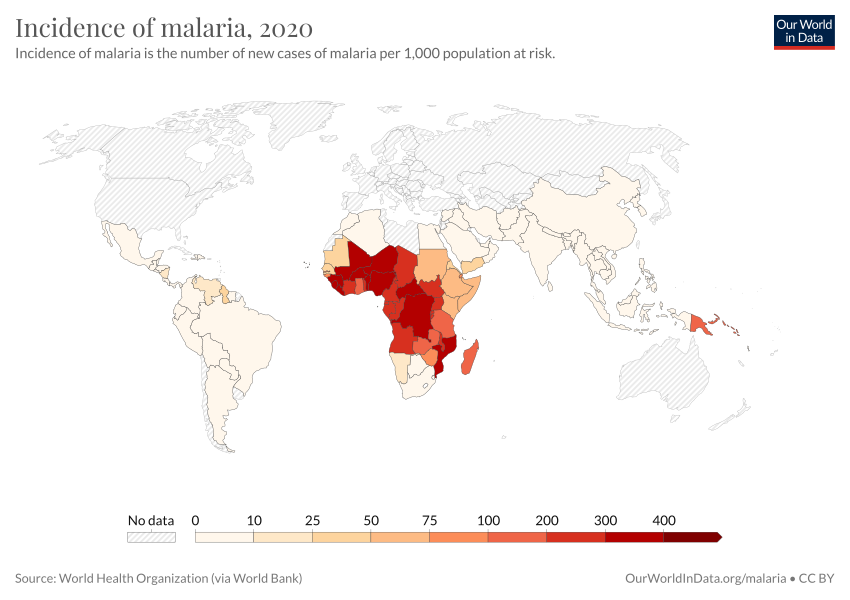
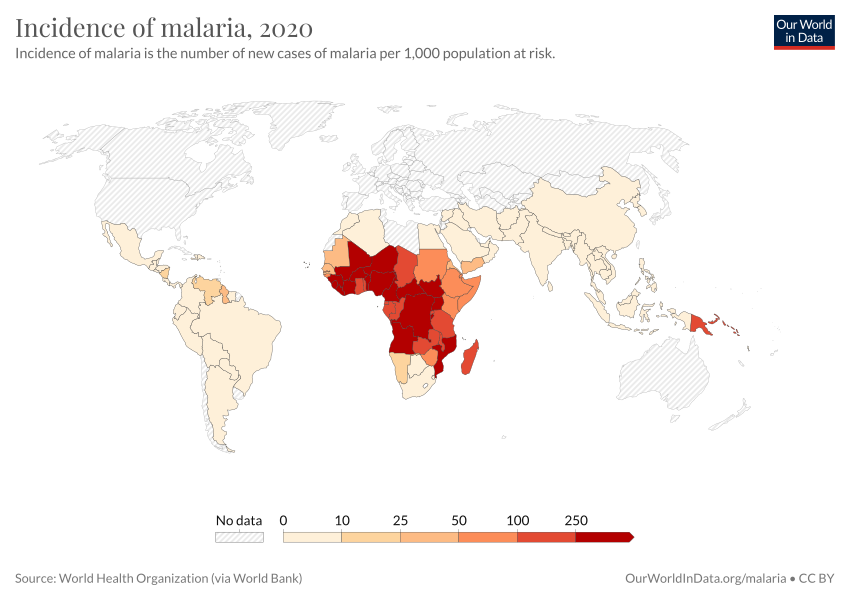
Deploy 2022-09-28T08:08:20.438Z Updating chart the-incidence-of-malaria-per-1000-population Updating chart the-incidence-of-malaria-per-1000-population Updating chart incidence-of-malaria Updating chart incidence-of-malaria

diff --git a/co2-emissions.html b/co2-emissions.html
@@ -1,4 +1,4 @@
-<!doctype html><html><head><meta name="viewport" content="width=device-width, initial-scale=1"/><title>CO2 emissions - Our World in Data</title><meta name="description" content="How much CO2 does the world emit? Which countries emit the most?"/><link rel="canonical" href="https://ourworldindata.org/co2-emissions"/><link rel="alternate" type="application/atom+xml" href="/atom.xml"/><link rel="apple-touch-icon" sizes="180x180" href="/apple-touch-icon.png"/><meta property="fb:app_id" content="1149943818390250"/><meta property="og:url" content="https://ourworldindata.org/co2-emissions"/><meta property="og:title" content="CO2 emissions"/><meta property="og:description" content="How much CO2 does the world emit? Which countries emit the most?"/><meta property="og:image" content="https://ourworldindata.org/uploads/2022/03/Screenshot-2022-03-04-at-16.51.31-768x480.png"/><meta property="og:site_name" content="Our World in Data"/><meta name="twitter:card" content="summary_large_image"/><meta name="twitter:site" content="@OurWorldInData"/><meta name="twitter:creator" content="@OurWorldInData"/><meta name="twitter:title" content="CO2 emissions"/><meta name="twitter:description" content="How much CO2 does the world emit? Which countries emit the most?"/><meta name="twitter:image" content="https://ourworldindata.org/uploads/2022/03/Screenshot-2022-03-04-at-16.51.31-768x480.png"/><link href="https://fonts.googleapis.com/css?family=Lato:300,400,400i,700,700i|Playfair+Display:400,700&amp;display=swap" rel="stylesheet"/><link rel="stylesheet" href="https://ourworldindata.org/assets/commons.css"/><link rel="stylesheet" href="https://ourworldindata.org/assets/owid.css"/><meta name="citation_title" content="CO₂ and Greenhouse Gas Emissions"/><meta name="citation_fulltext_html_url" content="https://ourworldindata.org/co2-and-other-greenhouse-gas-emissions"/><meta name="citation_fulltext_world_readable" content=""/><meta name="citation_publication_date" content="2020/05/11"/><meta name="citation_journal_title" content="Our World in Data"/><meta name="citation_journal_abbrev" content="Our World in Data"/><meta name="citation_author" content="Hannah Ritchie"/><meta name="citation_author" content="Max Roser"/><meta name="citation_author" content="Pablo Rosado"/></head><body class=""><header class="site-header"><div class="wrapper site-navigation-bar"><div class="site-logo"><a href="/">Our World<br/> in Data</a></div><nav class="site-navigation"><div class="topics-button-wrapper"><a href="/#entries" class="topics-button"><div class="label">Articles <br/><strong>by topic</strong></div><div class="icon"><svg width="12" height="6"><path d="M0,0 L12,0 L6,6 Z" fill="currentColor"></path></svg></div></a></div><div><div class="site-primary-navigation"><form class="HeaderSearch" action="/search" method="GET"><input type="search" name="q" placeholder="Search..."/><div class="icon"><svg aria-hidden="true" focusable="false" data-prefix="fas" data-icon="magnifying-glass" class="svg-inline--fa fa-magnifying-glass " role="img" xmlns="http://www.w3.org/2000/svg" viewBox="0 0 512 512"><path fill="currentColor" d="M416 208c0 45.9-14.9 88.3-40 122.7L502.6 457.4c12.5 12.5 12.5 32.8 0 45.3s-32.8 12.5-45.3 0L330.7 376c-34.4 25.2-76.8 40-122.7 40C93.1 416 0 322.9 0 208S93.1 0 208 0S416 93.1 416 208zM208 352c79.5 0 144-64.5 144-144s-64.5-144-144-144S64 128.5 64 208s64.5 144 144 144z"></path></svg></div></form><ul class="site-primary-links"><li><a href="/blog" data-track-note="header-navigation">Latest</a></li><li><a href="/about" data-track-note="header-navigation">About</a></li><li><a href="/donate" data-track-note="header-navigation">Donate</a></li></ul></div><div class="site-secondary-navigation"><ul class="site-secondary-links"><li><a href="/charts" data-track-note="header-navigation">All charts</a></li><li><a href="https://sdg-tracker.org" data-track-note="header-navigation">Sustainable Development Goals Tracker</a></li></ul></div></div></nav><div class="header-logos-wrapper"><a href="https://www.oxfordmartin.ox.ac.uk/global-development" class="oxford-logo"><img src="https://ourworldindata.org/oms-logo.svg" alt="Oxford Martin School logo"/></a><a href="https://global-change-data-lab.org/" class="gcdl-logo"><img src="https://ourworldindata.org/gcdl-logo.svg" alt="Global Change Data Lab logo"/></a></div><div class="mobile-site-navigation"><button data-track-note="mobile-search-button"><svg aria-hidden="true" focusable="false" data-prefix="fas" data-icon="magnifying-glass" class="svg-inline--fa fa-magnifying-glass " role="img" xmlns="http://www.w3.org/2000/svg" viewBox="0 0 512 512"><path fill="currentColor" d="M416 208c0 45.9-14.9 88.3-40 122.7L502.6 457.4c12.5 12.5 12.5 32.8 0 45.3s-32.8 12.5-45.3 0L330.7 376c-34.4 25.2-76.8 40-122.7 40C93.1 416 0 322.9 0 208S93.1 0 208 0S416 93.1 416 208zM208 352c79.5 0 144-64.5 144-144s-64.5-144-144-144S64 128.5 64 208s64.5 144 144 144z"></path></svg></button><button data-track-note="mobile-newsletter-button"><svg aria-hidden="true" focusable="false" data-prefix="fas" data-icon="envelope-open-text" class="svg-inline--fa fa-envelope-open-text " role="img" xmlns="http://www.w3.org/2000/svg" viewBox="0 0 512 512"><path fill="currentColor" d="M215.4 96H144 107.8 96v8.8V144v40.4 89L.2 202.5c1.6-18.1 10.9-34.9 25.7-45.8L48 140.3V96c0-26.5 21.5-48 48-48h76.6l49.9-36.9C232.2 3.9 243.9 0 256 0s23.8 3.9 33.5 11L339.4 48H416c26.5 0 48 21.5 48 48v44.3l22.1 16.4c14.8 10.9 24.1 27.7 25.7 45.8L416 273.4v-89V144 104.8 96H404.2 368 296.6 215.4zM0 448V242.1L217.6 403.3c11.1 8.2 24.6 12.7 38.4 12.7s27.3-4.4 38.4-12.7L512 242.1V448v0c0 35.3-28.7 64-64 64H64c-35.3 0-64-28.7-64-64v0zM176 160H336c8.8 0 16 7.2 16 16s-7.2 16-16 16H176c-8.8 0-16-7.2-16-16s7.2-16 16-16zm0 64H336c8.8 0 16 7.2 16 16s-7.2 16-16 16H176c-8.8 0-16-7.2-16-16s7.2-16 16-16z"></path></svg></button><button data-track-note="mobile-hamburger-button"><svg aria-hidden="true" focusable="false" data-prefix="fas" data-icon="bars" class="svg-inline--fa fa-bars " role="img" xmlns="http://www.w3.org/2000/svg" viewBox="0 0 448 512"><path fill="currentColor" d="M0 96C0 78.3 14.3 64 32 64H416c17.7 0 32 14.3 32 32s-14.3 32-32 32H32C14.3 128 0 113.7 0 96zM0 256c0-17.7 14.3-32 32-32H416c17.7 0 32 14.3 32 32s-14.3 32-32 32H32c-17.7 0-32-14.3-32-32zM448 416c0 17.7-14.3 32-32 32H32c-17.7 0-32-14.3-32-32s14.3-32 32-32H416c17.7 0 32 14.3 32 32z"></path></svg></button></div></div></header><div class="alert-banner"><div class="content"><div class="text"><strong>COVID-19 vaccinations, cases, excess mortality, and much more</strong></div><a href="/coronavirus#explore-the-global-situation" data-track-note="covid-banner-click">Explore our COVID-19 data</a></div></div><main><article class="page with-sidebar large-banner"><div class="offset-header"><header class="article-header"><div class="article-titles"><h1 class="entry-title">CO2 emissions</h1><div class="breadcrumb"><a href="/">Home</a><span class="separator"><svg aria-hidden="true" focusable="false" data-prefix="fas" data-icon="angle-right" class="svg-inline--fa fa-angle-right " role="img" xmlns="http://www.w3.org/2000/svg" viewBox="0 0 320 512"><path fill="currentColor" d="M278.6 233.4c12.5 12.5 12.5 32.8 0 45.3l-160 160c-12.5 12.5-32.8 12.5-45.3 0s-12.5-32.8 0-45.3L210.7 256 73.4 118.6c-12.5-12.5-12.5-32.8 0-45.3s32.8-12.5 45.3 0l160 160z"></path></svg></span><a data-track-note="breadcrumb" href="/co2-and-other-greenhouse-gas-emissions">CO₂ and GHG Emissions</a><span class="separator"><svg aria-hidden="true" focusable="false" data-prefix="fas" data-icon="angle-right" class="svg-inline--fa fa-angle-right " role="img" xmlns="http://www.w3.org/2000/svg" viewBox="0 0 320 512"><path fill="currentColor" d="M278.6 233.4c12.5 12.5 12.5 32.8 0 45.3l-160 160c-12.5 12.5-32.8 12.5-45.3 0s-12.5-32.8 0-45.3L210.7 256 73.4 118.6c-12.5-12.5-12.5-32.8 0-45.3s32.8-12.5 45.3 0l160 160z"></path></svg></span><span>CO₂ emissions</span></div></div><div class="authors-byline"><a href="/team">by Hannah Ritchie and Max Roser</a></div><div class="tools"><a href="#licence"><svg aria-hidden="true" focusable="false" data-prefix="fab" data-icon="creative-commons" class="svg-inline--fa fa-creative-commons " role="img" xmlns="http://www.w3.org/2000/svg" viewBox="0 0 496 512"><path fill="currentColor" d="M245.83 214.87l-33.22 17.28c-9.43-19.58-25.24-19.93-27.46-19.93-22.13 0-33.22 14.61-33.22 43.84 0 23.57 9.21 43.84 33.22 43.84 14.47 0 24.65-7.09 30.57-21.26l30.55 15.5c-6.17 11.51-25.69 38.98-65.1 38.98-22.6 0-73.96-10.32-73.96-77.05 0-58.69 43-77.06 72.63-77.06 30.72-.01 52.7 11.95 65.99 35.86zm143.05 0l-32.78 17.28c-9.5-19.77-25.72-19.93-27.9-19.93-22.14 0-33.22 14.61-33.22 43.84 0 23.55 9.23 43.84 33.22 43.84 14.45 0 24.65-7.09 30.54-21.26l31 15.5c-2.1 3.75-21.39 38.98-65.09 38.98-22.69 0-73.96-9.87-73.96-77.05 0-58.67 42.97-77.06 72.63-77.06 30.71-.01 52.58 11.95 65.56 35.86zM247.56 8.05C104.74 8.05 0 123.11 0 256.05c0 138.49 113.6 248 247.56 248 129.93 0 248.44-100.87 248.44-248 0-137.87-106.62-248-248.44-248zm.87 450.81c-112.54 0-203.7-93.04-203.7-202.81 0-105.42 85.43-203.27 203.72-203.27 112.53 0 202.82 89.46 202.82 203.26-.01 121.69-99.68 202.82-202.84 202.82z"></path></svg>Reuse our work freely</a><a href="#citation"><svg aria-hidden="true" focusable="false" data-prefix="fas" data-icon="book" class="svg-inline--fa fa-book " role="img" xmlns="http://www.w3.org/2000/svg" viewBox="0 0 448 512"><path fill="currentColor" d="M96 0C43 0 0 43 0 96V416c0 53 43 96 96 96H384h32c17.7 0 32-14.3 32-32s-14.3-32-32-32V384c17.7 0 32-14.3 32-32V32c0-17.7-14.3-32-32-32H384 96zm0 384H352v64H96c-17.7 0-32-14.3-32-32s14.3-32 32-32zm32-240c0-8.8 7.2-16 16-16H336c8.8 0 16 7.2 16 16s-7.2 16-16 16H144c-8.8 0-16-7.2-16-16zm16 48H336c8.8 0 16 7.2 16 16s-7.2 16-16 16H144c-8.8 0-16-7.2-16-16s7.2-16 16-16z"></path></svg>Cite this research</a></div></header></div><div class="offset-subnavigation"><div class="site-subnavigation"><div class="site-subnavigation-scroll"><ul class="site-subnavigation-links"><li class="highlight"><a href="/co2-and-other-greenhouse-gas-emissions" data-track-note="co2-subnav-co2-and-ghg-emissions">CO₂ and GHG Emissions<svg aria-hidden="true" focusable="false" data-prefix="fas" data-icon="chevron-left" class="svg-inline--fa fa-chevron-left " role="img" xmlns="http://www.w3.org/2000/svg" viewBox="0 0 384 512"><path fill="currentColor" d="M41.4 233.4c-12.5 12.5-12.5 32.8 0 45.3l192 192c12.5 12.5 32.8 12.5 45.3 0s12.5-32.8 0-45.3L109.3 256 278.6 86.6c12.5-12.5 12.5-32.8 0-45.3s-32.8-12.5-45.3 0l-192 192z"></path></svg></a></li><li class=""><a href="/co2-and-other-greenhouse-gas-emissions#co2-and-greenhouse-gas-emissions-country-profiles" data-track-note="co2-subnav-by-country">By country</a></li><li class=""><a href="/explorers/co2" data-track-note="co2-subnav-co2-data-explorer">Data explorer</a></li><li class="current"><a href="/co2-emissions" data-track-note="co2-subnav-co2-emissions">CO₂ emissions</a></li><li class=""><a href="/emissions-by-fuel" data-track-note="co2-subnav-by-fuel">CO₂ by fuel</a></li><li class=""><a href="/greenhouse-gas-emissions" data-track-note="co2-subnav-ghg-emissions">GHG emissions</a></li><li class=""><a href="/emissions-by-sector" data-track-note="co2-subnav-by-sector">By sector</a></li><li class=""><a href="/atmospheric-concentrations" data-track-note="co2-subnav-atm-concentrations">Atmospheric concentrations</a></li><li class=""><a href="/explorers/climate-change" data-track-note="co2-subnav-climate-impacts">Climate impacts</a></li></ul></div></div></div><div class="content-wrapper"><div class="toc-wrapper"><aside class="entry-sidebar"><div class="sticky-sentinel"></div><nav class="entry-toc"><ul><li><a href="#" data-track-note="toc-header">CO2 emissions</a></li><li class="section"><a href="#global-co2-emissions-from-fossil-fuels" data-track-note="toc-link">Global CO2 emissions from fossil fuels</a></li><li class="subsection"><a href="#global-co2-emissions-from-fossil-fuels-global-co2-emissions-from-fossil-fuels" data-track-note="toc-link">Global CO2 emissions from fossil fuels</a></li><li class="subsection"><a href="#global-co2-emissions-from-fossil-fuels-and-land-use-change" data-track-note="toc-link">Global CO2 emissions from fossil fuels and land use change</a></li><li class="subsection"><a href="#co2-emissions-by-region" data-track-note="toc-link">CO2 emissions by region</a></li><li class="section"><a href="#per-capita-co2-emissions" data-track-note="toc-link">Per capita CO2 emissions</a></li><li class="section"><a href="#annual-co2-emissions" data-track-note="toc-link">Annual CO2 emissions</a></li><li class="section"><a href="#annual-change-in-co2-emissions" data-track-note="toc-link">Annual change in CO2 emissions</a></li><li class="section"><a href="#cumulative-co2-emissions" data-track-note="toc-link">Cumulative CO2 emissions</a></li><li class="section"><a href="#consumption-based-trade-adjusted-emissions" data-track-note="toc-link">Consumption-based (trade-adjusted) emissions</a></li><li class="section"><a href="#decoupling-co2-emissions-from-economic-growth" data-track-note="toc-link">Decoupling CO₂ emissions from economic growth</a></li><li class="section"><a href="#global-inequalities-in-co2-emissions" data-track-note="toc-link">Global inequalities in CO2 emissions</a></li><li class="subsection"><a href="#global-inequalities-by-production" data-track-note="toc-link">Global inequalities by production</a></li><li class="subsection"><a href="#global-inequalities-by-consumption" data-track-note="toc-link">Global inequalities by consumption</a></li><li class="section"><a href="#how-do-we-measure-or-estimate-co2-emissions" data-track-note="toc-link">How do we measure or estimate CO2 emissions?</a></li><li class="section"><a href="#endnotes" data-track-note="toc-link">Endnotes</a></li><li class="section"><a href="#licence" data-track-note="toc-link">Licence</a></li><li class="section"><a href="#citation" data-track-note="toc-link">Citation</a></li></ul></nav><div class="toggle-toc"><button data-track-note="page-toggle-toc" aria-label="Open table of contents"><svg aria-hidden="true" focusable="false" data-prefix="fas" data-icon="bars" class="svg-inline--fa fa-bars " role="img" xmlns="http://www.w3.org/2000/svg" viewBox="0 0 448 512"><path fill="currentColor" d="M0 96C0 78.3 14.3 64 32 64H416c17.7 0 32 14.3 32 32s-14.3 32-32 32H32C14.3 128 0 113.7 0 96zM0 256c0-17.7 14.3-32 32-32H416c17.7 0 32 14.3 32 32s-14.3 32-32 32H32c-17.7 0-32-14.3-32-32zM448 416c0 17.7-14.3 32-32 32H32c-17.7 0-32-14.3-32-32s14.3-32 32-32H416c17.7 0 32 14.3 32 32z"></path></svg><span class="label">Contents</span></button></div></aside></div><div class="offset-content"><div class="content-and-footnotes"><div class="article-content"><section><div class="wp-block-columns is-style-sticky-right"><div class="wp-block-column"><p>You can&nbsp;<strong><a href="https://github.com/owid/co2-data">download</a></strong>&nbsp;our complete <em>Our World in Data</em> CO<sub>2</sub> and Greenhouse Gas Emissions database.</p><hr class="wp-block-separator"><p>Carbon dioxide emissions are the primary driver of global climate change. It’s widely recognised that to avoid the worst impacts of climate change, the world needs to urgently reduce emissions. But, how this responsibility is shared between regions, countries, and individuals has been an endless point of contention in international discussions. </p><p>This debate arises from the various ways in which emissions are compared: as annual emissions by country; emissions per person; historical contributions; and whether they adjust for traded goods and services. These metrics can tell very different stories. </p><p>We teamed up with the YouTube channel, <em>Kurzgesagt</em>, to produce a video which explored these different metrics in detail: <a href="https://www.youtube.com/watch?v=ipVxxxqwBQw">‘Who is responsible for climate change? – Who needs to fix it?’</a>. All of the data and research featured in this video is contained in this article: below we look in detail at the many ways emissions are broken down.</p><div class="wp-container-6333fef9e4741 wp-block-group">    <div class="block-wrapper"><div class="wp-block-owid-prominent-link with-image" data-no-lightbox="true" data-style="is-style-thin" data-title="&nbsp;‘Who is responsible for climate change? – Who needs to fix it?’"><a href="https://www.youtube.com/watch?v=ipVxxxqwBQw"><figure><img width="768" height="433" src="https://ourworldindata.org/uploads/2020/06/CO2-Kurzgesagt-768x433.png" class="attachment-medium_large size-medium_large" alt="Co2 kurzgesagt" loading="lazy" srcset="https://ourworldindata.org/uploads/2020/06/CO2-Kurzgesagt-768x433.png 768w, https://ourworldindata.org/uploads/2020/06/CO2-Kurzgesagt-400x225.png 400w, https://ourworldindata.org/uploads/2020/06/CO2-Kurzgesagt-800x451.png 800w, https://ourworldindata.org/uploads/2020/06/CO2-Kurzgesagt-150x84.png 150w, https://ourworldindata.org/uploads/2020/06/CO2-Kurzgesagt.png 1422w" sizes="(max-width: 768px) 100vw, 768px" data-high-res-src="https://ourworldindata.org/uploads/2020/06/CO2-Kurzgesagt.png"></figure><div class="content-wrapper"><div class="content">
+<!doctype html><html><head><meta name="viewport" content="width=device-width, initial-scale=1"/><title>CO2 emissions - Our World in Data</title><meta name="description" content="How much CO2 does the world emit? Which countries emit the most?"/><link rel="canonical" href="https://ourworldindata.org/co2-emissions"/><link rel="alternate" type="application/atom+xml" href="/atom.xml"/><link rel="apple-touch-icon" sizes="180x180" href="/apple-touch-icon.png"/><meta property="fb:app_id" content="1149943818390250"/><meta property="og:url" content="https://ourworldindata.org/co2-emissions"/><meta property="og:title" content="CO2 emissions"/><meta property="og:description" content="How much CO2 does the world emit? Which countries emit the most?"/><meta property="og:image" content="https://ourworldindata.org/uploads/2022/03/Screenshot-2022-03-04-at-16.51.31-768x480.png"/><meta property="og:site_name" content="Our World in Data"/><meta name="twitter:card" content="summary_large_image"/><meta name="twitter:site" content="@OurWorldInData"/><meta name="twitter:creator" content="@OurWorldInData"/><meta name="twitter:title" content="CO2 emissions"/><meta name="twitter:description" content="How much CO2 does the world emit? Which countries emit the most?"/><meta name="twitter:image" content="https://ourworldindata.org/uploads/2022/03/Screenshot-2022-03-04-at-16.51.31-768x480.png"/><link href="https://fonts.googleapis.com/css?family=Lato:300,400,400i,700,700i|Playfair+Display:400,700&amp;display=swap" rel="stylesheet"/><link rel="stylesheet" href="https://ourworldindata.org/assets/commons.css"/><link rel="stylesheet" href="https://ourworldindata.org/assets/owid.css"/><meta name="citation_title" content="CO₂ and Greenhouse Gas Emissions"/><meta name="citation_fulltext_html_url" content="https://ourworldindata.org/co2-and-other-greenhouse-gas-emissions"/><meta name="citation_fulltext_world_readable" content=""/><meta name="citation_publication_date" content="2020/05/11"/><meta name="citation_journal_title" content="Our World in Data"/><meta name="citation_journal_abbrev" content="Our World in Data"/><meta name="citation_author" content="Hannah Ritchie"/><meta name="citation_author" content="Max Roser"/><meta name="citation_author" content="Pablo Rosado"/></head><body class=""><header class="site-header"><div class="wrapper site-navigation-bar"><div class="site-logo"><a href="/">Our World<br/> in Data</a></div><nav class="site-navigation"><div class="topics-button-wrapper"><a href="/#entries" class="topics-button"><div class="label">Articles <br/><strong>by topic</strong></div><div class="icon"><svg width="12" height="6"><path d="M0,0 L12,0 L6,6 Z" fill="currentColor"></path></svg></div></a></div><div><div class="site-primary-navigation"><form class="HeaderSearch" action="/search" method="GET"><input type="search" name="q" placeholder="Search..."/><div class="icon"><svg aria-hidden="true" focusable="false" data-prefix="fas" data-icon="magnifying-glass" class="svg-inline--fa fa-magnifying-glass " role="img" xmlns="http://www.w3.org/2000/svg" viewBox="0 0 512 512"><path fill="currentColor" d="M416 208c0 45.9-14.9 88.3-40 122.7L502.6 457.4c12.5 12.5 12.5 32.8 0 45.3s-32.8 12.5-45.3 0L330.7 376c-34.4 25.2-76.8 40-122.7 40C93.1 416 0 322.9 0 208S93.1 0 208 0S416 93.1 416 208zM208 352c79.5 0 144-64.5 144-144s-64.5-144-144-144S64 128.5 64 208s64.5 144 144 144z"></path></svg></div></form><ul class="site-primary-links"><li><a href="/blog" data-track-note="header-navigation">Latest</a></li><li><a href="/about" data-track-note="header-navigation">About</a></li><li><a href="/donate" data-track-note="header-navigation">Donate</a></li></ul></div><div class="site-secondary-navigation"><ul class="site-secondary-links"><li><a href="/charts" data-track-note="header-navigation">All charts</a></li><li><a href="https://sdg-tracker.org" data-track-note="header-navigation">Sustainable Development Goals Tracker</a></li></ul></div></div></nav><div class="header-logos-wrapper"><a href="https://www.oxfordmartin.ox.ac.uk/global-development" class="oxford-logo"><img src="https://ourworldindata.org/oms-logo.svg" alt="Oxford Martin School logo"/></a><a href="https://global-change-data-lab.org/" class="gcdl-logo"><img src="https://ourworldindata.org/gcdl-logo.svg" alt="Global Change Data Lab logo"/></a></div><div class="mobile-site-navigation"><button data-track-note="mobile-search-button"><svg aria-hidden="true" focusable="false" data-prefix="fas" data-icon="magnifying-glass" class="svg-inline--fa fa-magnifying-glass " role="img" xmlns="http://www.w3.org/2000/svg" viewBox="0 0 512 512"><path fill="currentColor" d="M416 208c0 45.9-14.9 88.3-40 122.7L502.6 457.4c12.5 12.5 12.5 32.8 0 45.3s-32.8 12.5-45.3 0L330.7 376c-34.4 25.2-76.8 40-122.7 40C93.1 416 0 322.9 0 208S93.1 0 208 0S416 93.1 416 208zM208 352c79.5 0 144-64.5 144-144s-64.5-144-144-144S64 128.5 64 208s64.5 144 144 144z"></path></svg></button><button data-track-note="mobile-newsletter-button"><svg aria-hidden="true" focusable="false" data-prefix="fas" data-icon="envelope-open-text" class="svg-inline--fa fa-envelope-open-text " role="img" xmlns="http://www.w3.org/2000/svg" viewBox="0 0 512 512"><path fill="currentColor" d="M215.4 96H144 107.8 96v8.8V144v40.4 89L.2 202.5c1.6-18.1 10.9-34.9 25.7-45.8L48 140.3V96c0-26.5 21.5-48 48-48h76.6l49.9-36.9C232.2 3.9 243.9 0 256 0s23.8 3.9 33.5 11L339.4 48H416c26.5 0 48 21.5 48 48v44.3l22.1 16.4c14.8 10.9 24.1 27.7 25.7 45.8L416 273.4v-89V144 104.8 96H404.2 368 296.6 215.4zM0 448V242.1L217.6 403.3c11.1 8.2 24.6 12.7 38.4 12.7s27.3-4.4 38.4-12.7L512 242.1V448v0c0 35.3-28.7 64-64 64H64c-35.3 0-64-28.7-64-64v0zM176 160H336c8.8 0 16 7.2 16 16s-7.2 16-16 16H176c-8.8 0-16-7.2-16-16s7.2-16 16-16zm0 64H336c8.8 0 16 7.2 16 16s-7.2 16-16 16H176c-8.8 0-16-7.2-16-16s7.2-16 16-16z"></path></svg></button><button data-track-note="mobile-hamburger-button"><svg aria-hidden="true" focusable="false" data-prefix="fas" data-icon="bars" class="svg-inline--fa fa-bars " role="img" xmlns="http://www.w3.org/2000/svg" viewBox="0 0 448 512"><path fill="currentColor" d="M0 96C0 78.3 14.3 64 32 64H416c17.7 0 32 14.3 32 32s-14.3 32-32 32H32C14.3 128 0 113.7 0 96zM0 256c0-17.7 14.3-32 32-32H416c17.7 0 32 14.3 32 32s-14.3 32-32 32H32c-17.7 0-32-14.3-32-32zM448 416c0 17.7-14.3 32-32 32H32c-17.7 0-32-14.3-32-32s14.3-32 32-32H416c17.7 0 32 14.3 32 32z"></path></svg></button></div></div></header><div class="alert-banner"><div class="content"><div class="text"><strong>COVID-19 vaccinations, cases, excess mortality, and much more</strong></div><a href="/coronavirus#explore-the-global-situation" data-track-note="covid-banner-click">Explore our COVID-19 data</a></div></div><main><article class="page with-sidebar large-banner"><div class="offset-header"><header class="article-header"><div class="article-titles"><h1 class="entry-title">CO2 emissions</h1><div class="breadcrumb"><a href="/">Home</a><span class="separator"><svg aria-hidden="true" focusable="false" data-prefix="fas" data-icon="angle-right" class="svg-inline--fa fa-angle-right " role="img" xmlns="http://www.w3.org/2000/svg" viewBox="0 0 320 512"><path fill="currentColor" d="M278.6 233.4c12.5 12.5 12.5 32.8 0 45.3l-160 160c-12.5 12.5-32.8 12.5-45.3 0s-12.5-32.8 0-45.3L210.7 256 73.4 118.6c-12.5-12.5-12.5-32.8 0-45.3s32.8-12.5 45.3 0l160 160z"></path></svg></span><a data-track-note="breadcrumb" href="/co2-and-other-greenhouse-gas-emissions">CO₂ and GHG Emissions</a><span class="separator"><svg aria-hidden="true" focusable="false" data-prefix="fas" data-icon="angle-right" class="svg-inline--fa fa-angle-right " role="img" xmlns="http://www.w3.org/2000/svg" viewBox="0 0 320 512"><path fill="currentColor" d="M278.6 233.4c12.5 12.5 12.5 32.8 0 45.3l-160 160c-12.5 12.5-32.8 12.5-45.3 0s-12.5-32.8 0-45.3L210.7 256 73.4 118.6c-12.5-12.5-12.5-32.8 0-45.3s32.8-12.5 45.3 0l160 160z"></path></svg></span><span>CO₂ emissions</span></div></div><div class="authors-byline"><a href="/team">by Hannah Ritchie and Max Roser</a></div><div class="tools"><a href="#licence"><svg aria-hidden="true" focusable="false" data-prefix="fab" data-icon="creative-commons" class="svg-inline--fa fa-creative-commons " role="img" xmlns="http://www.w3.org/2000/svg" viewBox="0 0 496 512"><path fill="currentColor" d="M245.83 214.87l-33.22 17.28c-9.43-19.58-25.24-19.93-27.46-19.93-22.13 0-33.22 14.61-33.22 43.84 0 23.57 9.21 43.84 33.22 43.84 14.47 0 24.65-7.09 30.57-21.26l30.55 15.5c-6.17 11.51-25.69 38.98-65.1 38.98-22.6 0-73.96-10.32-73.96-77.05 0-58.69 43-77.06 72.63-77.06 30.72-.01 52.7 11.95 65.99 35.86zm143.05 0l-32.78 17.28c-9.5-19.77-25.72-19.93-27.9-19.93-22.14 0-33.22 14.61-33.22 43.84 0 23.55 9.23 43.84 33.22 43.84 14.45 0 24.65-7.09 30.54-21.26l31 15.5c-2.1 3.75-21.39 38.98-65.09 38.98-22.69 0-73.96-9.87-73.96-77.05 0-58.67 42.97-77.06 72.63-77.06 30.71-.01 52.58 11.95 65.56 35.86zM247.56 8.05C104.74 8.05 0 123.11 0 256.05c0 138.49 113.6 248 247.56 248 129.93 0 248.44-100.87 248.44-248 0-137.87-106.62-248-248.44-248zm.87 450.81c-112.54 0-203.7-93.04-203.7-202.81 0-105.42 85.43-203.27 203.72-203.27 112.53 0 202.82 89.46 202.82 203.26-.01 121.69-99.68 202.82-202.84 202.82z"></path></svg>Reuse our work freely</a><a href="#citation"><svg aria-hidden="true" focusable="false" data-prefix="fas" data-icon="book" class="svg-inline--fa fa-book " role="img" xmlns="http://www.w3.org/2000/svg" viewBox="0 0 448 512"><path fill="currentColor" d="M96 0C43 0 0 43 0 96V416c0 53 43 96 96 96H384h32c17.7 0 32-14.3 32-32s-14.3-32-32-32V384c17.7 0 32-14.3 32-32V32c0-17.7-14.3-32-32-32H384 96zm0 384H352v64H96c-17.7 0-32-14.3-32-32s14.3-32 32-32zm32-240c0-8.8 7.2-16 16-16H336c8.8 0 16 7.2 16 16s-7.2 16-16 16H144c-8.8 0-16-7.2-16-16zm16 48H336c8.8 0 16 7.2 16 16s-7.2 16-16 16H144c-8.8 0-16-7.2-16-16s7.2-16 16-16z"></path></svg>Cite this research</a></div></header></div><div class="offset-subnavigation"><div class="site-subnavigation"><div class="site-subnavigation-scroll"><ul class="site-subnavigation-links"><li class="highlight"><a href="/co2-and-other-greenhouse-gas-emissions" data-track-note="co2-subnav-co2-and-ghg-emissions">CO₂ and GHG Emissions<svg aria-hidden="true" focusable="false" data-prefix="fas" data-icon="chevron-left" class="svg-inline--fa fa-chevron-left " role="img" xmlns="http://www.w3.org/2000/svg" viewBox="0 0 384 512"><path fill="currentColor" d="M41.4 233.4c-12.5 12.5-12.5 32.8 0 45.3l192 192c12.5 12.5 32.8 12.5 45.3 0s12.5-32.8 0-45.3L109.3 256 278.6 86.6c12.5-12.5 12.5-32.8 0-45.3s-32.8-12.5-45.3 0l-192 192z"></path></svg></a></li><li class=""><a href="/co2-and-other-greenhouse-gas-emissions#co2-and-greenhouse-gas-emissions-country-profiles" data-track-note="co2-subnav-by-country">By country</a></li><li class=""><a href="/explorers/co2" data-track-note="co2-subnav-co2-data-explorer">Data explorer</a></li><li class="current"><a href="/co2-emissions" data-track-note="co2-subnav-co2-emissions">CO₂ emissions</a></li><li class=""><a href="/emissions-by-fuel" data-track-note="co2-subnav-by-fuel">CO₂ by fuel</a></li><li class=""><a href="/greenhouse-gas-emissions" data-track-note="co2-subnav-ghg-emissions">GHG emissions</a></li><li class=""><a href="/emissions-by-sector" data-track-note="co2-subnav-by-sector">By sector</a></li><li class=""><a href="/atmospheric-concentrations" data-track-note="co2-subnav-atm-concentrations">Atmospheric concentrations</a></li><li class=""><a href="/explorers/climate-change" data-track-note="co2-subnav-climate-impacts">Climate impacts</a></li></ul></div></div></div><div class="content-wrapper"><div class="toc-wrapper"><aside class="entry-sidebar"><div class="sticky-sentinel"></div><nav class="entry-toc"><ul><li><a href="#" data-track-note="toc-header">CO2 emissions</a></li><li class="section"><a href="#global-co2-emissions-from-fossil-fuels" data-track-note="toc-link">Global CO2 emissions from fossil fuels</a></li><li class="subsection"><a href="#global-co2-emissions-from-fossil-fuels-global-co2-emissions-from-fossil-fuels" data-track-note="toc-link">Global CO2 emissions from fossil fuels</a></li><li class="subsection"><a href="#global-co2-emissions-from-fossil-fuels-and-land-use-change" data-track-note="toc-link">Global CO2 emissions from fossil fuels and land use change</a></li><li class="subsection"><a href="#co2-emissions-by-region" data-track-note="toc-link">CO2 emissions by region</a></li><li class="section"><a href="#per-capita-co2-emissions" data-track-note="toc-link">Per capita CO2 emissions</a></li><li class="section"><a href="#annual-co2-emissions" data-track-note="toc-link">Annual CO2 emissions</a></li><li class="section"><a href="#annual-change-in-co2-emissions" data-track-note="toc-link">Annual change in CO2 emissions</a></li><li class="section"><a href="#cumulative-co2-emissions" data-track-note="toc-link">Cumulative CO2 emissions</a></li><li class="section"><a href="#consumption-based-trade-adjusted-emissions" data-track-note="toc-link">Consumption-based (trade-adjusted) emissions</a></li><li class="section"><a href="#decoupling-co2-emissions-from-economic-growth" data-track-note="toc-link">Decoupling CO₂ emissions from economic growth</a></li><li class="section"><a href="#global-inequalities-in-co2-emissions" data-track-note="toc-link">Global inequalities in CO2 emissions</a></li><li class="subsection"><a href="#global-inequalities-by-production" data-track-note="toc-link">Global inequalities by production</a></li><li class="subsection"><a href="#global-inequalities-by-consumption" data-track-note="toc-link">Global inequalities by consumption</a></li><li class="section"><a href="#how-do-we-measure-or-estimate-co2-emissions" data-track-note="toc-link">How do we measure or estimate CO2 emissions?</a></li><li class="section"><a href="#endnotes" data-track-note="toc-link">Endnotes</a></li><li class="section"><a href="#licence" data-track-note="toc-link">Licence</a></li><li class="section"><a href="#citation" data-track-note="toc-link">Citation</a></li></ul></nav><div class="toggle-toc"><button data-track-note="page-toggle-toc" aria-label="Open table of contents"><svg aria-hidden="true" focusable="false" data-prefix="fas" data-icon="bars" class="svg-inline--fa fa-bars " role="img" xmlns="http://www.w3.org/2000/svg" viewBox="0 0 448 512"><path fill="currentColor" d="M0 96C0 78.3 14.3 64 32 64H416c17.7 0 32 14.3 32 32s-14.3 32-32 32H32C14.3 128 0 113.7 0 96zM0 256c0-17.7 14.3-32 32-32H416c17.7 0 32 14.3 32 32s-14.3 32-32 32H32c-17.7 0-32-14.3-32-32zM448 416c0 17.7-14.3 32-32 32H32c-17.7 0-32-14.3-32-32s14.3-32 32-32H416c17.7 0 32 14.3 32 32z"></path></svg><span class="label">Contents</span></button></div></aside></div><div class="offset-content"><div class="content-and-footnotes"><div class="article-content"><section><div class="wp-block-columns is-style-sticky-right"><div class="wp-block-column"><p>You can&nbsp;<strong><a href="https://github.com/owid/co2-data">download</a></strong>&nbsp;our complete <em>Our World in Data</em> CO<sub>2</sub> and Greenhouse Gas Emissions database.</p><hr class="wp-block-separator"><p>Carbon dioxide emissions are the primary driver of global climate change. It’s widely recognised that to avoid the worst impacts of climate change, the world needs to urgently reduce emissions. But, how this responsibility is shared between regions, countries, and individuals has been an endless point of contention in international discussions. </p><p>This debate arises from the various ways in which emissions are compared: as annual emissions by country; emissions per person; historical contributions; and whether they adjust for traded goods and services. These metrics can tell very different stories. </p><p>We teamed up with the YouTube channel, <em>Kurzgesagt</em>, to produce a video which explored these different metrics in detail: <a href="https://www.youtube.com/watch?v=ipVxxxqwBQw">‘Who is responsible for climate change? – Who needs to fix it?’</a>. All of the data and research featured in this video is contained in this article: below we look in detail at the many ways emissions are broken down.</p><div class="wp-container-6334011b48901 wp-block-group">    <div class="block-wrapper"><div class="wp-block-owid-prominent-link with-image" data-no-lightbox="true" data-style="is-style-thin" data-title="&nbsp;‘Who is responsible for climate change? – Who needs to fix it?’"><a href="https://www.youtube.com/watch?v=ipVxxxqwBQw"><figure><img width="768" height="433" src="https://ourworldindata.org/uploads/2020/06/CO2-Kurzgesagt-768x433.png" class="attachment-medium_large size-medium_large" alt="Co2 kurzgesagt" loading="lazy" srcset="https://ourworldindata.org/uploads/2020/06/CO2-Kurzgesagt-768x433.png 768w, https://ourworldindata.org/uploads/2020/06/CO2-Kurzgesagt-400x225.png 400w, https://ourworldindata.org/uploads/2020/06/CO2-Kurzgesagt-800x451.png 800w, https://ourworldindata.org/uploads/2020/06/CO2-Kurzgesagt-150x84.png 150w, https://ourworldindata.org/uploads/2020/06/CO2-Kurzgesagt.png 1422w" sizes="(max-width: 768px) 100vw, 768px" data-high-res-src="https://ourworldindata.org/uploads/2020/06/CO2-Kurzgesagt.png"></figure><div class="content-wrapper"><div class="content">
 
 <p>We teamed up with YouTube channel <em>Kurzgesagt</em> to make a video on comparisons of CO<sub>2</sub> emissions.</p>
 

diff --git a/grapher/incidence-of-malaria.html b/grapher/incidence-of-malaria.html
@@ -11,18 +11,14 @@
       "customNumericColors": [
         null,
         null,
-        null,
         null
       ],
       "customNumericValues": [
         10,
         25,
         50,
-        75,
         100,
-        200,
-        300,
-        400,
+        250,
         500
       ],
       "customNumericMinValue": 0
@@ -58,7 +54,6 @@
       "Uganda",
       "Turkmenistan",
       "Turkey",
-      "United Arab Emirates",
       "Togo",
       "Thailand",
       "Tajikistan",
@@ -99,7 +94,6 @@
       "South Korea",
       "North Korea",
       "Kenya",
-      "Kazakhstan",
       "Iraq",
       "Iran",
       "Indonesia",
@@ -140,49 +134,32 @@
       "South Sudan",
       "El Salvador",
       "Sub-Saharan Africa",
-      "Middle East & North Africa",
+      "Middle East and North Africa",
       "South Asia",
-      "Arab World",
-      "Fragile and conflict affected situations",
-      "Heavily indebted poor countries (HIPC)",
-      "Least developed countries: UN classification",
       "Low income",
       "Lower middle income",
-      "Low & middle income",
       "Middle income",
       "Upper middle income",
-      "Latin America & Caribbean",
-      "East Asia & Pacific",
+      "East Asia and Pacific",
       "World",
-      "East Asia & Pacific (excluding high income)",
-      "Early-demographic dividend",
-      "IBRD only",
-      "IDA & IBRD total",
-      "IDA total",
-      "IDA blend",
-      "IDA only",
-      "Latin America & Caribbean (excluding high income)",
-      "Late-demographic dividend",
-      "Middle East & North Africa (excluding high income)",
-      "Pre-demographic dividend",
-      "Sub-Saharan Africa (excluding high income)",
-      "South Asia (IDA & IBRD)",
-      "East Asia & Pacific (IDA & IBRD)",
-      "Latin America & Caribbean (IDA & IBRD)",
-      "Middle East & North Africa (IDA & IBRD)",
-      "Sub-Saharan Africa (IDA & IBRD)",
-      "Africa Eastern and Southern",
-      "Africa Western and Central"
+      "Latin America and Caribbean",
+      "Low and middle income",
+      "Kazakhstan",
+      "United Arab Emirates"
     ]
   },
   "slug": "incidence-of-malaria",
   "title": "Incidence of malaria",
-  "version": 8,
+  "version": 10,
   "subtitle": "Incidence of malaria is the number of new cases of malaria per 1,000 population at risk.",
   "hasMapTab": true,
   "originUrl": "https://ourworldindata.org/malaria",
   "dimensions": [
     {
+      "display": {
+        "unit": "new infections per 1,000 people at risk ",
+        "includeInTable": true
+      },
       "property": "y",
       "variableId": 446678
     }

diff --git a/explorers/global-health.html b/explorers/global-health.html
@@ -2562,7 +2562,7 @@ const grapherConfigs =
   },
   {
     "id": 1821,
-    "version": 8,
+    "version": 10,
     "slug": "incidence-of-malaria",
     "title": "Incidence of malaria",
     "subtitle": "Incidence of malaria is the number of new cases of malaria per 1,000 population at risk.",
@@ -2580,15 +2580,11 @@ const grapherConfigs =
           10,
           25,
           50,
-          75,
           100,
-          200,
-          300,
-          400,
+          250,
           500
         ],
         "customNumericColors": [
-          null,
           null,
           null,
           null
@@ -2599,7 +2595,11 @@ const grapherConfigs =
     "dimensions": [
       {
         "property": "y",
-        "variableId": 446678
+        "variableId": 446678,
+        "display": {
+          "unit": "new infections per 1,000 people at risk ",
+          "includeInTable": true
+        }
       }
     ],
     "selectedEntityNames": [
@@ -3397,7 +3397,7 @@ const grapherConfigs =
   },
   {
     "id": 2926,
-    "version": 16,
+    "version": 18,
     "slug": "the-incidence-of-malaria-per-1000-population",
     "title": "Incidence of malaria",
     "subtitle": "Incidence refers to the number of new malaria infections per 1,000 people at risk.",
@@ -3418,11 +3418,11 @@ const grapherConfigs =
         "binningStrategy": "manual",
         "customNumericValues": [
           10,
+          25,
           50,
           100,
           250,
-          500,
-          1000
+          500
         ],
         "customNumericLabels": [
           "",
@@ -3436,8 +3436,8 @@ const grapherConfigs =
         "customNumericColors": [
           null,
           null,
-          "#fca55a",
           null,
+          "#fca55a",
           null,
           null
         ]
@@ -3449,7 +3449,7 @@ const grapherConfigs =
         "property": "y",
         "variableId": 418064,
         "display": {
-          "unit": "new infections",
+          "unit": "new infections per 1,000 people at risk ",
           "conversionFactor": 0.01,
           "numDecimalPlaces": 0,
           "includeInTable": true

diff --git a/malaria.html b/malaria.html
@@ -168,7 +168,7 @@
 
 <section><div class="section-heading"><div class="wrapper"><div><h2 id="malaria-incidence">Malaria Incidence<a class="deep-link" href="#malaria-incidence"></a></h2></div></div></div><div class="wp-block-columns is-style-sticky-right"><div class="wp-block-column"><p>The map shows the number of new malaria cases per 100,000 individuals across the world. The malaria incidence is highest in the central part of Africa north and south of the equator.</p></div><div class="wp-block-column"><div class="wp-sticky-container"><figure data-grapher-src="https://ourworldindata.org/grapher/incidence-of-malaria" class="grapherPreview">
                     <a href="https://ourworldindata.org/grapher/incidence-of-malaria" target="_blank">
-                        <div><img src="https://ourworldindata.org/exports/incidence-of-malaria_v8_850x600.svg" width="850" height="600" loading="lazy" data-no-lightbox="" alt="Incidence of malaria v8 850x600"></div>
+                        <div><img src="https://ourworldindata.org/exports/incidence-of-malaria_v10_850x600.svg" width="850" height="600" loading="lazy" data-no-lightbox="" alt="Incidence of malaria v10 850x600"></div>
                         <div class="interactionNotice">
                             <span class="icon"><svg aria-hidden="true" focusable="false" data-prefix="fas" data-icon="hand-pointer" class="svg-inline--fa fa-hand-pointer fa-w-14" role="img" xmlns="http://www.w3.org/2000/svg" viewBox="0 0 448 617">
     <path fill="currentColor" d="M448,344.59v96a40.36,40.36,0,0,1-1.06,9.16l-32,136A40,40,0,0,1,376,616.59H168a40,40,0,0,1-32.35-16.47l-128-176a40,40,0,0,1,64.7-47.06L104,420.58v-276a40,40,0,0,1,80,0v200h8v-40a40,40,0,1,1,80,0v40h8v-24a40,40,0,1,1,80,0v24h8a40,40,0,1,1,80,0Zm-256,80h-8v96h8Zm88,0h-8v96h8Zm88,0h-8v96h8Z" transform="translate(0 -0.41)"></path>

diff --git a/energy-archive.html b/energy-archive.html
@@ -201,7 +201,7 @@
 
 
 
-<div class="wp-sticky-container"><div data-project="energy" class="wp-block-search-country-profile"></div><h5><strong>Our 12 most visited country profiles</strong></h5><div class="wp-container-6333fef842305 wp-block-group"><div class="wp-block-group__inner-container">
+<div class="wp-sticky-container"><div data-project="energy" class="wp-block-search-country-profile"></div><h5><strong>Our 12 most visited country profiles</strong></h5><div class="wp-container-6334011944906 wp-block-group"><div class="wp-block-group__inner-container">
 <ul class="covid-country-tiles"><li><a href="https://ourworldindata.org/energy/country/united-states?country=~USA">United States</a></li><li><a href="https://ourworldindata.org/energy/country/united-kingdom?country=~GBR">United Kingdom</a></li><li><a href="https://ourworldindata.org/energy/country/china?country=~CHN">China</a></li><li><a href="https://ourworldindata.org/energy/country/india?country=~IND">India</a></li><li><a href="https://ourworldindata.org/energy/country/brazil?country=~BRA">Brazil</a></li><li><a href="https://ourworldindata.org/energy/country/south-africa?country=~ZAF">South Africa</a></li><li><a href="https://ourworldindata.org/energy/country/germany?country=~DEU">Germany</a></li><li><a href="https://ourworldindata.org/energy/country/spain?country=~ESP">Spain</a></li><li><a href="https://ourworldindata.org/energy/country/france?country=~FRA">France</a></li><li><a href="https://ourworldindata.org/energy/country/canada?country=~CAN">Canada</a></li><li><a href="https://ourworldindata.org/energy/country/australia?country=~AUS">Australia</a></li><li><a href="https://ourworldindata.org/energy/country/sweden?country=~SWE">Sweden</a></li></ul>
 </div></div></div></div>
 

diff --git a/co2-and-other-greenhouse-gas-emissions.html b/co2-and-other-greenhouse-gas-emissions.html
@@ -23,7 +23,7 @@
 
 
 
-<div class="wp-sticky-container"><div data-project="co2" class="wp-block-search-country-profile"></div><h5><strong>Our 12 most visited country profiles</strong></h5><div class="wp-container-6333fefa0707d wp-block-group">
+<div class="wp-sticky-container"><div data-project="co2" class="wp-block-search-country-profile"></div><h5><strong>Our 12 most visited country profiles</strong></h5><div class="wp-container-6334011b61f74 wp-block-group">
 <ul class="covid-country-tiles"><li><a href="https://ourworldindata.org/co2/country/united-states?country=~USA">United States</a></li><li><a href="https://ourworldindata.org/co2/country/united-kingdom?country=~GBR">United Kingdom</a></li><li><a href="https://ourworldindata.org/co2/country/china?country=~CHN">China</a></li><li><a href="https://ourworldindata.org/co2/country/india?country=~IND">India</a></li><li><a href="https://ourworldindata.org/co2/country/brazil?country=~BRA">Brazil</a></li><li><a href="https://ourworldindata.org/co2/country/south-africa?country=~ZAF">South Africa</a></li><li><a href="https://ourworldindata.org/co2/country/germany?country=~DEU">Germany</a></li><li><a href="https://ourworldindata.org/co2/country/spain?country=~ESP">Spain</a></li><li><a href="https://ourworldindata.org/co2/country/france?country=~FRA">France</a></li><li><a href="https://ourworldindata.org/co2/country/canada?country=~CAN">Canada</a></li><li><a href="https://ourworldindata.org/co2/country/australia?country=~AUS">Australia</a></li><li><a href="https://ourworldindata.org/co2/country/sweden?country=~SWE">Sweden</a></li></ul>
 </div></div></div>
 

diff --git a/democracy.html b/democracy.html
@@ -1862,7 +1862,7 @@ Justifies democracy characteristics</td>
 
 
 
-<div class="wp-container-6333fefe6e18a wp-block-group">
+<div class="wp-container-633401219a8c7 wp-block-group">
 <ul><li><strong>full democracy</strong>: comprehensive extent of democracy, few weaknesses</li><li><strong>flawed democracy</strong>: some weaknesses in democratic institutions and culture</li><li><strong>hybrid regime</strong>: serious weaknesses in democratic institutions and culture</li><li><strong>authoritarian regime</strong>: few democratic institutions and little democratic culture</li></ul>
 </div>
 </div>

diff --git a/democracies-measurement.html b/democracies-measurement.html
@@ -531,7 +531,7 @@ Justifies democracy characteristics</td>
 
 
 
-<div class="wp-container-6333fef1336a0 wp-block-group">
+<div class="wp-container-63340112a74a6 wp-block-group">
 <ul><li><strong>full democracy</strong>: comprehensive extent of democracy, few weaknesses</li><li><strong>flawed democracy</strong>: some weaknesses in democratic institutions and culture</li><li><strong>hybrid regime</strong>: serious weaknesses in democratic institutions and culture</li><li><strong>authoritarian regime</strong>: few democratic institutions and little democratic culture</li></ul>
 </div>
 </div>

diff --git a/grapher/the-incidence-of-malaria-per-1000-population.html b/grapher/the-incidence-of-malaria-per-1000-population.html
@@ -274,14 +274,14 @@
     "max": 0,
     "min": 0
   },
-  "version": 17,
+  "version": 18,
   "subtitle": "Incidence refers to the number of new malaria infections per 1,000 people at risk.",
   "hasMapTab": true,
   "originUrl": "ourworldindata.org/malaria",
   "dimensions": [
     {
       "display": {
-        "unit": "new infections",
+        "unit": "new infections per 1,000 people at risk ",
         "includeInTable": true,
         "conversionFactor": 0.01,
         "numDecimalPlaces": 0
